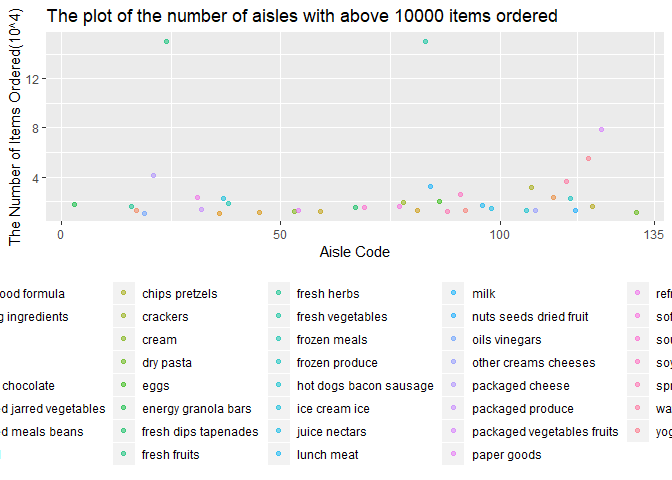
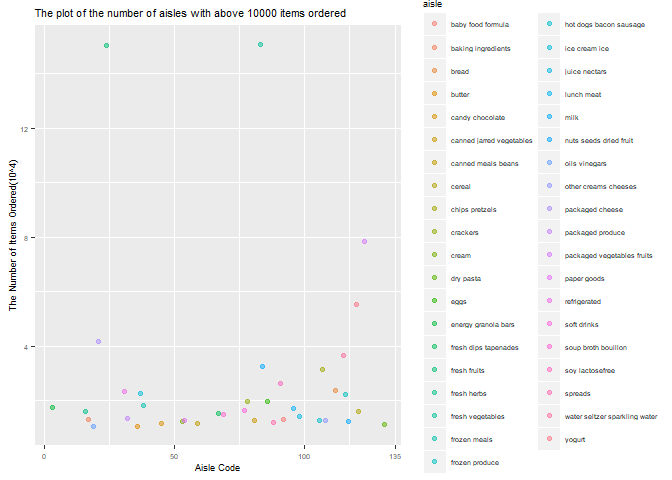
Some renovations on polting

diff --git a/p8105_hw3_jg4197.md b/p8105_hw3_jg4197.md
@@ -6,10 +6,31 @@ Jin Ge
 ## Exploration of instacart dataset
 
 ``` r
+# set some parameters in this prj
+knitr::opts_chunk$set(message = FALSE,
+                      warning = FALSE,
+                      fig.width = 8,
+                      fig.height = 6)
+
 # open the packages and dataset
 library(p8105.datasets)
 library(tidyverse)
+```
+
+    ## -- Attaching packages ------------------------------- tidyverse 1.2.1 --
+
+    ## v ggplot2 3.2.1     v purrr   0.3.2
+    ## v tibble  2.1.3     v dplyr   0.8.3
+    ## v tidyr   1.0.0     v stringr 1.4.0
+    ## v readr   1.3.1     v forcats 0.4.0
+
+    ## -- Conflicts ---------------------------------- tidyverse_conflicts() --
+    ## x dplyr::filter() masks stats::filter()
+    ## x dplyr::lag()    masks stats::lag()
+
+``` r
 data("instacart")
+
 
 # get knowledge of each variable
 names(instacart)
@@ -83,13 +104,14 @@ instacart %>%
     breaks = c(40000, 80000, 120000),
     labels = c("4", "8", "12")
   ) +
-  theme(legend.position = "bottom")
+  theme(legend.position = "right", 
+        text = element_text(size = 7))
 ```
 
 ![](p8105_hw3_jg4197_files/figure-gfm/problem%201-1.png)<!-- -->
 
 ``` r
-## x-aixs showing the different aisles and y-axis showing the count of each aisle. Two products are evident from other products on high number of orders in this type of products.
+## x-axis showing the different aisles and y-axis showing the count of each aisle. Two products are evident from other products on high number of orders in this type of products.
 
 
 # a table with 3 most popular items in each aisle
@@ -99,32 +121,36 @@ instacart %>%
                       "dog food care", 
                       "packaged vegetables fruits")) %>% 
   group_by(aisle, product_name) %>% 
-  summarise(count = n()) %>%
-  mutate(rank = order(
-    order(count, product_name, decreasing = TRUE)
-  )) %>% 
+  summarise(count = n()) %>% 
+  mutate(rank = min_rank(desc(count))) %>% 
   filter(rank %in% c("1", "2", "3")) %>% 
-  pivot_wider(aisle:count,
-              names_from = "product_name",
-              values_from = "count", 
-              values_fill = list(count = 0)) %>% 
+  arrange(aisle, rank) %>% 
+  select(aisle, product_name, sum_orders = count) %>% 
   knitr::kable()
 ```
 
-| aisle                      | Cane Sugar | Light Brown Sugar | Pure Baking Soda | Organix Chicken & Brown Rice Recipe | Small Dog Biscuits | Snack Sticks Chicken & Rice Recipe Dog Treats | Organic Baby Spinach | Organic Blueberries | Organic Raspberries |
-| :------------------------- | ---------: | ----------------: | ---------------: | ----------------------------------: | -----------------: | --------------------------------------------: | -------------------: | ------------------: | ------------------: |
-| baking ingredients         |        336 |               499 |              387 |                                   0 |                  0 |                                             0 |                    0 |                   0 |                   0 |
-| dog food care              |          0 |                 0 |                0 |                                  28 |                 26 |                                            30 |                    0 |                   0 |                   0 |
-| packaged vegetables fruits |          0 |                 0 |                0 |                                   0 |                  0 |                                             0 |                 9784 |                4966 |                5546 |
+| aisle                      | product\_name                                 | sum\_orders |
+| :------------------------- | :-------------------------------------------- | ----------: |
+| baking ingredients         | Light Brown Sugar                             |         499 |
+| baking ingredients         | Pure Baking Soda                              |         387 |
+| baking ingredients         | Cane Sugar                                    |         336 |
+| dog food care              | Snack Sticks Chicken & Rice Recipe Dog Treats |          30 |
+| dog food care              | Organix Chicken & Brown Rice Recipe           |          28 |
+| dog food care              | Small Dog Biscuits                            |          26 |
+| packaged vegetables fruits | Organic Baby Spinach                          |        9784 |
+| packaged vegetables fruits | Organic Raspberries                           |        5546 |
+| packaged vegetables fruits | Organic Blueberries                           |        4966 |
 
 ``` r
-## Since each aisle sends different items, the missing value should be zero meaning that this item is not sent by this aisle
+## We can see that the top 3 items in baking ingredients aisle are 'light brown sugar', 'pure baking soda' and 'cane sugar'. top 3 items in dog food care are 'snack sticks chicken & rice recipe dog treats', 'organix chicken & brown rice recipe'. Top 3 in apckages vegetables fruits aisle are 'organic baby spinach', 'organic raspberries' and 'organic blueberries'.
+
 
 
 # a table with mean hour at two items ordered
 instacart %>% 
   select(product_name, order_dow, order_hour_of_day) %>% 
-  mutate(order_dow = recode(order_dow, `0` = "Mon",
+  mutate(order_dow = factor(order_dow),
+    order_dow = recode(order_dow, `0` = "Mon",
                             `1` = "Tues",
                             `2` = "Wed",
                             `3` = "Thur",
@@ -141,13 +167,13 @@ instacart %>%
   knitr::kable()
 ```
 
-| product\_name    |      Fri |      Mon |      Sat |      Sun |     Thur |     Tues |      Wed |
+| product\_name    |      Mon |     Tues |      Wed |     Thur |      Fri |      Sat |      Sun |
 | :--------------- | -------: | -------: | -------: | -------: | -------: | -------: | -------: |
-| Coffee Ice Cream | 15.21739 | 13.77419 | 12.26316 | 13.83333 | 15.31818 | 14.31579 | 15.38095 |
-| Pink Lady Apples | 11.55172 | 13.44118 | 12.78431 | 11.93750 | 14.25000 | 11.36000 | 11.70213 |
+| Coffee Ice Cream | 13.77419 | 14.31579 | 15.38095 | 15.31818 | 15.21739 | 12.26316 | 13.83333 |
+| Pink Lady Apples | 13.44118 | 11.36000 | 11.70213 | 14.25000 | 11.55172 | 12.78431 | 11.93750 |
 
 ``` r
-## this is a 2*7 table showing the mean hour in each day of a week
+## this is a 2*7 table showing the mean hour in each day of a week. Orders for coffee ice cream have a peak on wednesday, thursday and friday, while orders for pink lady apples have a peak on monday. Overall, the mean of each product is stable.
 ```
 
 The size of *instacart* dataset is 1384617, 15 and the column types are
@@ -225,25 +251,23 @@ brfss %>%
 # construct a new dataset and make a plot
 brfss %>% 
   filter(response == "Excellent") %>% 
-  select(year, state = locationabbr, data_value) %>% 
-  group_by(year, state) %>% 
+  select(year, State = locationabbr, data_value) %>% 
+  group_by(year, State) %>% 
   summarise(mean_data_value = mean(data_value)) %>% 
-  ggplot(aes(x = year, y = mean_data_value, color = state)) +
-  geom_point(alpha = .5) + geom_line(alpha = .8) + theme_classic() +
+  ggplot(aes(x = year, y = mean_data_value, color = State)) +
+  geom_point(alpha = .5) + geom_line(alpha = .8, size = .9) + 
+  theme_classic() +
   scale_x_continuous(
     breaks = c(2002, 2003, 2004, 2005, 2006, 2007, 2008, 2009, 2010)
-  ) +
+    ) +
   labs(
     title = "Average Excellent Health Data Across Years in Each State",
     x = "Year",
     y = "Average values of excellent health",
     caption = "Data from BRFSS"
-  ) 
+  ) +
+  theme(text = element_text(size = 10))
 ```
-
-    ## Warning: Removed 4 rows containing missing values (geom_point).
-
-    ## Warning: Removed 3 rows containing missing values (geom_path).
 
 ![](p8105_hw3_jg4197_files/figure-gfm/problem%202-1.png)<!-- -->
 
@@ -254,22 +278,23 @@ brfss %>%
 brfss %>% 
   filter(year %in% c("2006", "2010"),
          locationabbr == "NY") %>% 
-  select(year, response, locationdesc, data_value) %>% 
-  ggplot(aes(x = response, y = data_value, color = response)) +
-  geom_boxplot(aes(fill = response), alpha = .5) +
-  facet_grid(~year) +
+  select(year, response, County = locationdesc, Values = data_value) %>% 
+  ggplot(aes(x = response, y = Values, color = County)) +
+  geom_point(aes(fill = County, size = Values), alpha = .5) +
+  facet_grid(~ year) +
   labs(
-    title = "Health Conditon in New York in 2006 and 2010",
+    title = "Health Conditon reported by phone in New York in 2006 and 2010",
     x = "Response level", 
     y = "Health data values",
     caption = "Data from BRFSS"
-  )
+  ) +
+  theme(text = element_text(size = 10))
 ```
 
 ![](p8105_hw3_jg4197_files/figure-gfm/problem%202-2.png)<!-- -->
 
 ``` r
-## This plot shows the values about health behavior reporting in five ersponse levels in two years
+## This plot shows the values about health behavior reporting in five ersponse levels in two years. Overall, people in NY think their health is good or very good. By the year, Bronx has more people think their health is good
 ```
 
 ## exploration of a dataset about accelerometers
@@ -288,82 +313,94 @@ accel_dat <- read_csv("./original dataset/accel_data.csv") %>%
   ),
   week = as.character(week),
   week_or_work = factor(week_or_work))
+head(accel_dat, 5)
+```
+
+    ## # A tibble: 5 x 6
+    ##   week  day_id day    activity_minute accel_value week_or_work
+    ##   <chr>  <dbl> <chr>  <chr>                 <dbl> <fct>       
+    ## 1 1          1 Friday activity_1             88.4 workday     
+    ## 2 1          1 Friday activity_2             82.2 workday     
+    ## 3 1          1 Friday activity_3             64.4 workday     
+    ## 4 1          1 Friday activity_4             70.0 workday     
+    ## 5 1          1 Friday activity_5             75.0 workday
+
+``` r
 ## Description on this dataset is in inline R code at the end of this chunk. week_or_work variable is binary and a factor variable with two levels
 
 
 # create a table showing total activity of a day
 accel_dat %>% 
-  select(day_id, accel_value) %>% 
-  group_by(day_id) %>% 
+  select(week, day, accel_value) %>% 
+  group_by(week, day) %>% 
   summarise(activity_total_val = sum(accel_value)) %>% 
   knitr::kable()
 ```
 
-| day\_id | activity\_total\_val |
-| ------: | -------------------: |
-|       1 |            480542.62 |
-|       2 |             78828.07 |
-|       3 |            376254.00 |
-|       4 |            631105.00 |
-|       5 |            355923.64 |
-|       6 |            307094.24 |
-|       7 |            340115.01 |
-|       8 |            568839.00 |
-|       9 |            295431.00 |
-|      10 |            607175.00 |
-|      11 |            422018.00 |
-|      12 |            474048.00 |
-|      13 |            423245.00 |
-|      14 |            440962.00 |
-|      15 |            467420.00 |
-|      16 |            685910.00 |
-|      17 |            382928.00 |
-|      18 |            467052.00 |
-|      19 |            371230.00 |
-|      20 |            381507.00 |
-|      21 |            468869.00 |
-|      22 |            154049.00 |
-|      23 |            409450.00 |
-|      24 |              1440.00 |
-|      25 |            260617.00 |
-|      26 |            340291.00 |
-|      27 |            319568.00 |
-|      28 |            434460.00 |
-|      29 |            620860.00 |
-|      30 |            389080.00 |
-|      31 |              1440.00 |
-|      32 |            138421.00 |
-|      33 |            549658.00 |
-|      34 |            367824.00 |
-|      35 |            445366.00 |
+| week | day       | activity\_total\_val |
+| :--- | :-------- | -------------------: |
+| 1    | Friday    |            480542.62 |
+| 1    | Monday    |             78828.07 |
+| 1    | Saturday  |            376254.00 |
+| 1    | Sunday    |            631105.00 |
+| 1    | Thursday  |            355923.64 |
+| 1    | Tuesday   |            307094.24 |
+| 1    | Wednesday |            340115.01 |
+| 2    | Friday    |            568839.00 |
+| 2    | Monday    |            295431.00 |
+| 2    | Saturday  |            607175.00 |
+| 2    | Sunday    |            422018.00 |
+| 2    | Thursday  |            474048.00 |
+| 2    | Tuesday   |            423245.00 |
+| 2    | Wednesday |            440962.00 |
+| 3    | Friday    |            467420.00 |
+| 3    | Monday    |            685910.00 |
+| 3    | Saturday  |            382928.00 |
+| 3    | Sunday    |            467052.00 |
+| 3    | Thursday  |            371230.00 |
+| 3    | Tuesday   |            381507.00 |
+| 3    | Wednesday |            468869.00 |
+| 4    | Friday    |            154049.00 |
+| 4    | Monday    |            409450.00 |
+| 4    | Saturday  |              1440.00 |
+| 4    | Sunday    |            260617.00 |
+| 4    | Thursday  |            340291.00 |
+| 4    | Tuesday   |            319568.00 |
+| 4    | Wednesday |            434460.00 |
+| 5    | Friday    |            620860.00 |
+| 5    | Monday    |            389080.00 |
+| 5    | Saturday  |              1440.00 |
+| 5    | Sunday    |            138421.00 |
+| 5    | Thursday  |            549658.00 |
+| 5    | Tuesday   |            367824.00 |
+| 5    | Wednesday |            445366.00 |
 
 ``` r
 ## According to solely watching, It is hard to find a trend in it
 
 
+
 # a graph showing 24-hour activity vs day
 accel_dat %>% 
-  select(day_id, accel_value) %>% 
-  group_by(day_id) %>% 
-  summarise(activity_total_val = sum(accel_value)) %>%
-  left_join(accel_dat, by = "day_id") %>% 
-  select(day_id, activity_total_val, week) %>% 
-  distinct(day_id, activity_total_val, week, .keep_all = TRUE) %>% 
-  ggplot(aes(x = day_id, y = activity_total_val, color = week)) +
-  geom_boxplot(aes(fill = week), alpha = .5) +
-  scale_x_continuous(breaks = c(0, 7, 14, 21, 28, 35)) +
+  select(week, Day = day, accel_value) %>% 
+  group_by(week, Day) %>% 
+  summarise(activity_mean_val = mean(accel_value)) %>% 
+  ggplot(aes(x = week, y = activity_mean_val, color = Day)) +
+  geom_point(aes(fill = Day), size = .8, alpha = .5) + geom_line(aes(group = Day), size = .9) +
+  theme_light() +
   labs(
-    title = "Boxplot of Acceleromator Data for Five Weeks",
-    x = "Nmuber of the day",
-    y = "Activity values over a day",
+    title = "Lines of Acceleromator Data for Five Weeks",
+    x = "Nmuber of the week",
+    y = "Avreage activity values over a day",
     caption = "Data from CUMC"
-  ) 
+  ) +
+  theme(text = element_text(size = 10))
 ```
 
 ![](p8105_hw3_jg4197_files/figure-gfm/problem%203-1.png)<!-- -->
 
 ``` r
-## The trend is like a wave on a week scale and the range becomes larger, but still have a balance
+## The trends in Monday and Friday have large difference and fluctuate evidently. Saturdays and Sundays are prone to decline in later weeks. Thursdays tend to increase while Tuesdays and Wednesdays are relatively stable. 
 ```
 
 The total observations in *accel\_dat* is 50400. The variables in this
